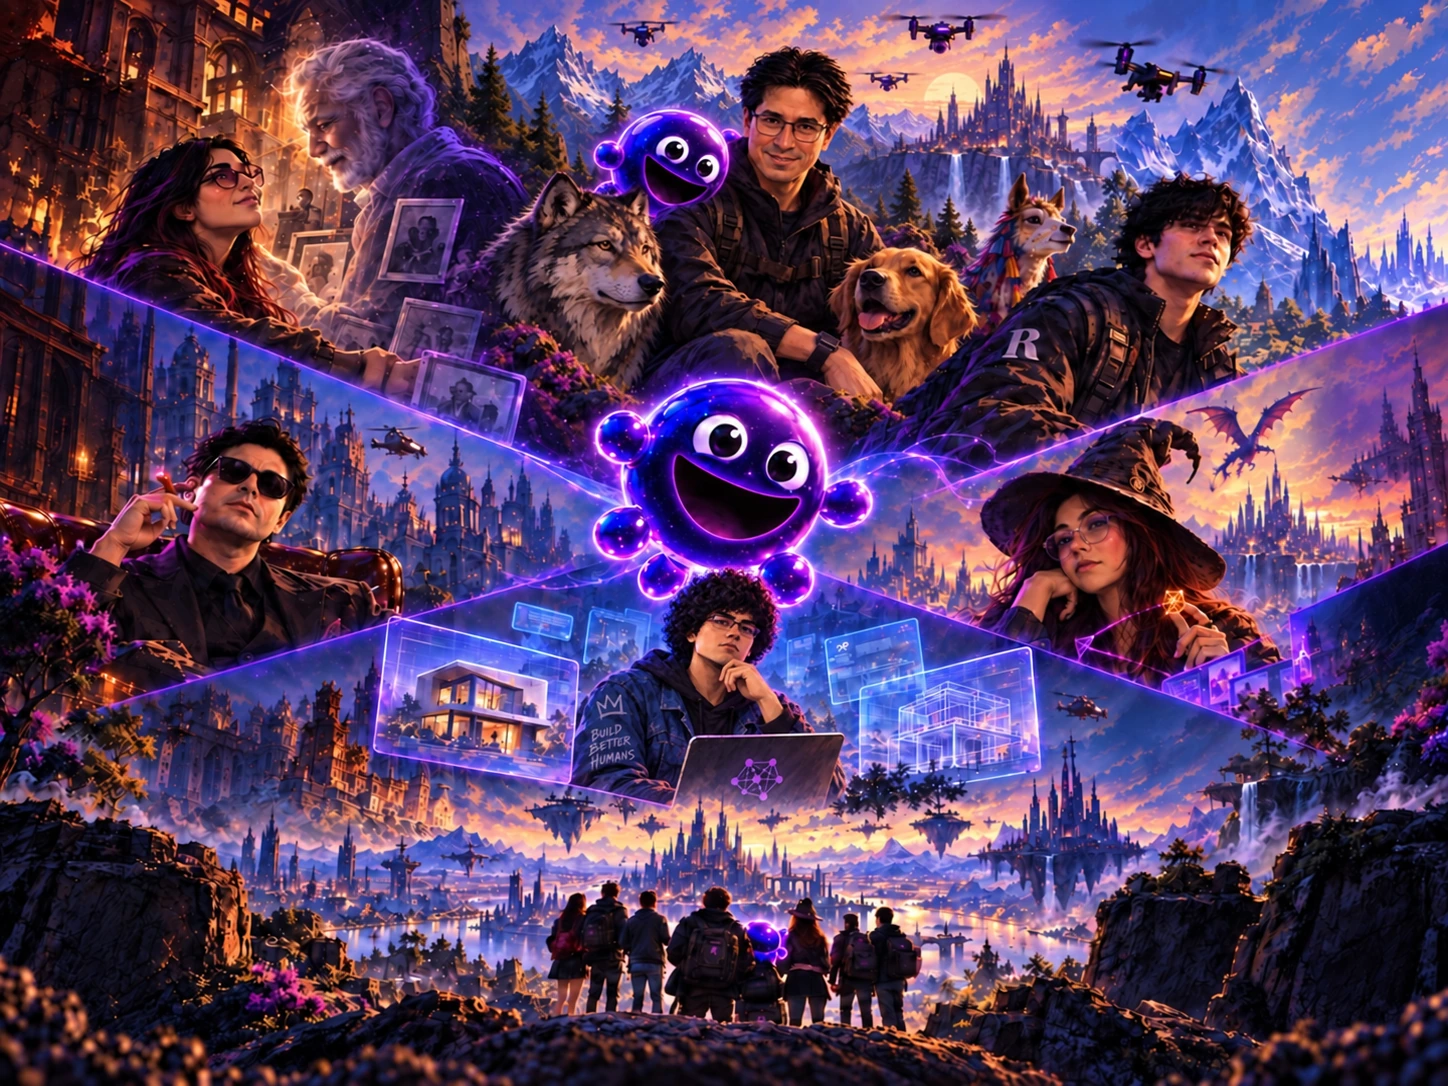
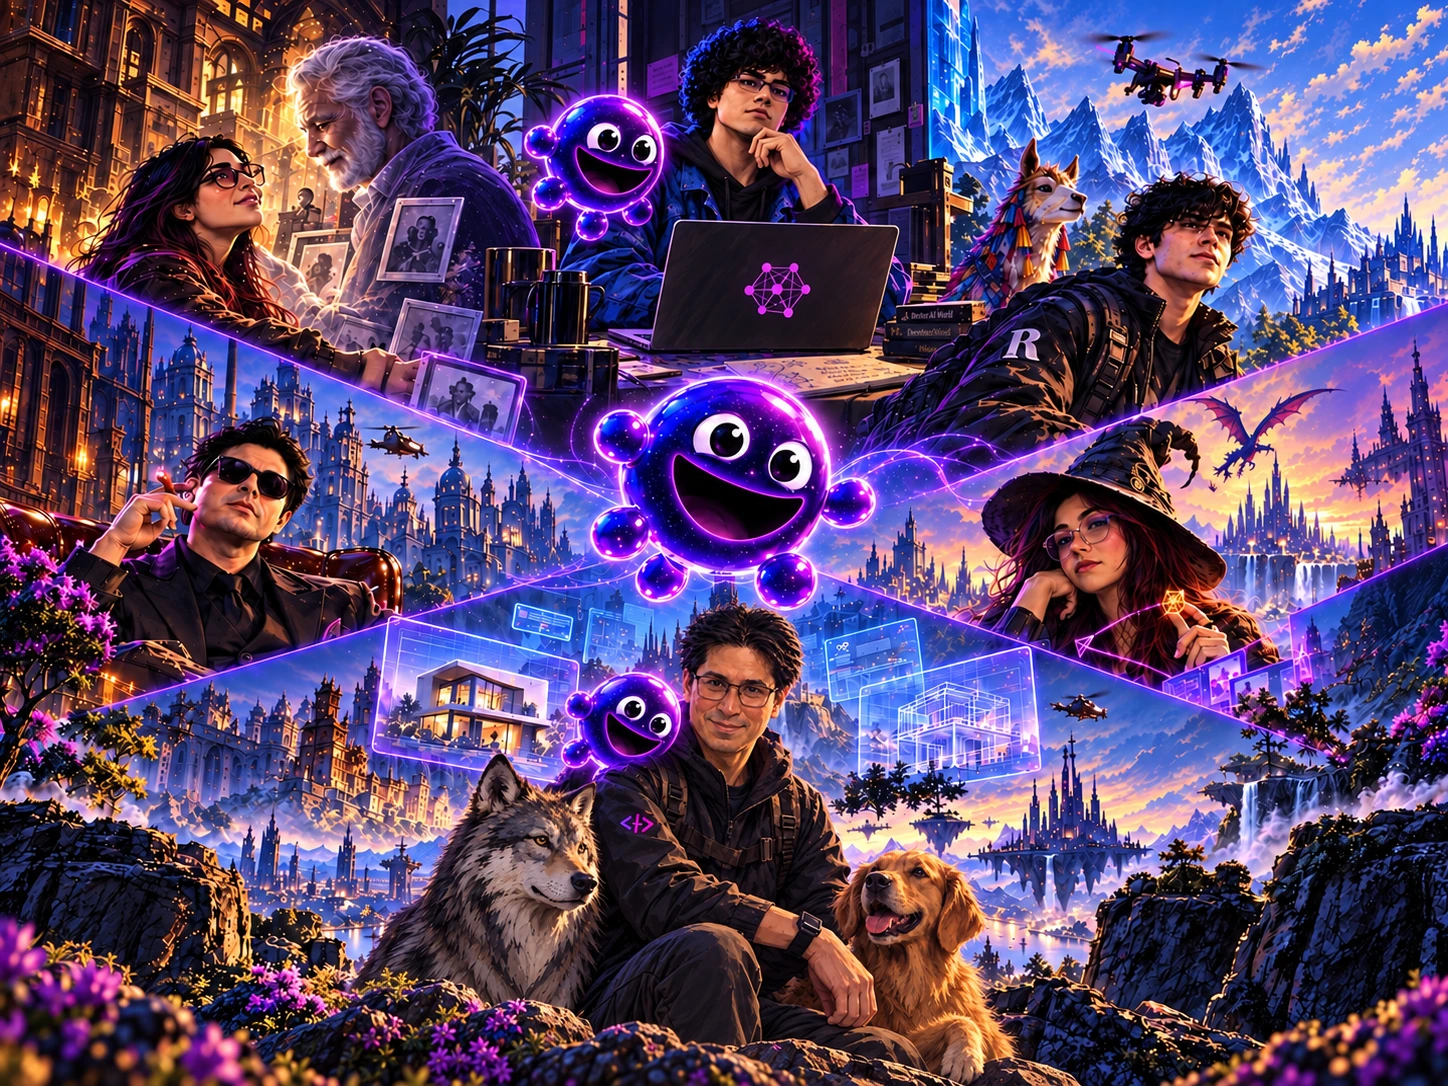
Portada a sangre completa y pilares sin notas de producción
Nueva versión de Portada.png, ahora ocupando toda la primera lámina con un
velo en degradado que rescata la lectura del texto sin apagar la mitad
derecha. La leyenda lleva píldora: encima de la imagen clara desaparecía.

En los cuatro pilares se van "Concepto de imagen" y el prompt: describían
cómo producir una pieza que ya existe. Con ese espacio libre la columna de
la pieza pasa de 1fr a 1.15fr y la lámina crece de 601x338 a 888x500.

diff --git a/index.html b/index.html
@@ -23,8 +23,10 @@ a:hover{color:#A855F7}
 </helmet>
 <x-import component-from-global-scope="deck-stage" from="./deck-stage.js" width="1920" height="1080" hint-size="100%,100%">
 
-<section data-label="Portada" data-screen-label="01" data-speaker-notes="&quot;Todos están hablando de lo que la IA puede hacer. Nosotros vamos a mostrarte lo que TÚ puedes hacer con ella.&quot; [pausa. que respire.] &quot;Bienvenidos a BubbleMesh. El estudio de los Imposibles.&quot;" style="display:flex;background:radial-gradient(ellipse 70% 60% at 70% 30%,rgba(124,58,237,.28),transparent 70%),#0B0F1A;color:#fff;font-family:Inter,sans-serif;overflow:hidden">
-  <div style="flex:0 0 52%;display:flex;flex-direction:column;padding:96px 0 72px 112px">
+<section data-label="Portada" data-screen-label="01" data-speaker-notes="&quot;Todos están hablando de lo que la IA puede hacer. Nosotros vamos a mostrarte lo que TÚ puedes hacer con ella.&quot; [pausa. que respire.] &quot;Bienvenidos a BubbleMesh. El estudio de los Imposibles.&quot;" style="position:relative;display:flex;background:#0B0F1A;color:#fff;font-family:Inter,sans-serif;overflow:hidden">
+  <div onClick="{{ openPortada }}" role="button" tabIndex="0" style="position:absolute;inset:0;cursor:zoom-in"><image-slot id="portada-campana" shape="rect" fit="cover" src="assets/campana-portada.webp" style="position:absolute;inset:0;width:100%;height:100%" placeholder="Portada de campaña — arrastra una imagen"></image-slot></div>
+  <div style="position:absolute;inset:0;pointer-events:none;background:linear-gradient(90deg,rgba(6,9,17,.95) 0%,rgba(6,9,17,.9) 30%,rgba(6,9,17,.62) 48%,rgba(6,9,17,.24) 70%,rgba(6,9,17,.32) 100%)"></div>
+  <div style="position:relative;flex:0 0 52%;display:flex;flex-direction:column;padding:96px 0 72px 112px">
     <div style="font-family:'JetBrains Mono',monospace;font-size:24px;letter-spacing:.14em;text-transform:uppercase;color:#94A3B8">Deck de presentación · 2026</div>
     <div style="margin-top:auto;font-family:Montserrat,sans-serif;font-weight:800;font-size:96px;line-height:1">
       <span style="color:#fff">Bubble</span><span style="background:linear-gradient(90deg,#A855F7,#EC4899);-webkit-background-clip:text;background-clip:text;-webkit-text-fill-color:transparent">Mesh</span>
@@ -38,10 +40,9 @@ a:hover{color:#A855F7}
       </div>
     </sc-if>
   </div>
-  <div style="flex:1;display:flex;align-items:center;justify-content:center;position:relative">
-    <div onClick="{{ openPortada }}" role="button" tabIndex="0" style="position:relative;width:760px;height:570px;cursor:zoom-in;border-radius:20px;overflow:hidden;border:1px solid rgba(168,85,247,.28);box-shadow:0 0 90px rgba(168,85,247,.35)"><image-slot id="portada-campana" shape="rect" fit="cover" src="assets/campana-portada.webp" style="position:absolute;inset:0;width:100%;height:100%" placeholder="Portada de campaña — arrastra una imagen"></image-slot></div>
+  <div style="position:relative;flex:1;display:flex;align-items:flex-end;justify-content:flex-end;padding:0 112px 72px 0">
     <sc-if value="{{ pieceNames }}" hint-placeholder-val="{{ true }}">
-      <div style="position:absolute;right:112px;bottom:72px;font-family:'JetBrains Mono',monospace;font-size:24px;letter-spacing:.1em;text-transform:uppercase;color:rgba(148,163,184,.55)">Pieza · Portada de campaña · <span style="color:#A855F7">Ampliar ⤢</span></div>
+      <div onClick="{{ openPortada }}" role="button" tabIndex="0" style="font-family:'JetBrains Mono',monospace;font-size:24px;letter-spacing:.1em;text-transform:uppercase;color:rgba(226,232,240,.92);cursor:pointer;background:rgba(6,9,17,.62);backdrop-filter:blur(8px);border:1px solid rgba(255,255,255,.1);border-radius:999px;padding:14px 26px" style-hover="color:#fff">Pieza · Portada de campaña · <span style="color:#A855F7">Ampliar ⤢</span></div>
     </sc-if>
   </div>
 </section>
@@ -155,19 +156,14 @@ a:hover{color:#A855F7}
     <div style="font-family:'JetBrains Mono',monospace;font-size:24px;letter-spacing:.14em;text-transform:uppercase;color:#94A3B8">Pilar 1 · Motor de alcance</div>
   </div>
   <div style="margin-top:16px;font-family:Montserrat,sans-serif;font-weight:800;font-size:96px;line-height:1">Lo imposible</div>
-  <div style="margin-top:48px;flex:1;min-height:0;display:grid;grid-template-columns:1fr 1fr;gap:64px">
+  <div style="margin-top:48px;flex:1;min-height:0;display:grid;grid-template-columns:0.85fr 1.15fr;gap:64px">
     <div style="display:flex;flex-direction:column">
       <div style="font-family:Montserrat,sans-serif;font-weight:700;font-size:38px;line-height:1.2;color:#E2E8F0;max-width:26ch">¿Qué es tan grande que un equipo de seis no debería poder lograrlo… y lo logramos de todos modos?</div>
       <div style="margin-top:40px;display:flex;flex-direction:column;font-family:Inter,sans-serif;font-size:28px;color:#E2E8F0">
-        <div style="padding:12px 0;border-top:1px solid rgba(255,255,255,.1)">48 horas para convertir un mariachi en una experiencia cinematográfica</div>
-        <div style="padding:12px 0;border-top:1px solid rgba(255,255,255,.1)">$0 vs $1,000,000: lo que costaría y lo que costó de verdad</div>
-        <div style="padding:12px 0;border-top:1px solid rgba(255,255,255,.1)">Una universidad completa en 60 segundos, un solo día de rodaje</div>
-        <div style="padding:12px 0;border-top:1px solid rgba(255,255,255,.1);border-bottom:1px solid rgba(255,255,255,.1)">1 persona vs. una productora entera: mismo comercial, mismo brief</div>
-      </div>
-    
-      <div style="margin-top:auto;padding-top:28px;display:flex;flex-direction:column;gap:10px">
-        <div style="font-family:'JetBrains Mono',monospace;font-size:22px;letter-spacing:.12em;text-transform:uppercase;color:#A855F7">Concepto de imagen</div>
-        <div style="font-family:Inter,sans-serif;font-size:24px;line-height:1.45;color:rgba(226,232,240,.78)">Un reloj de arena gigante hecho de luz, a punto de vaciarse. En la arena que cae se ve una escena imposible tomando forma.</div>
+        <div style="padding:18px 0;border-top:1px solid rgba(255,255,255,.1)">48 horas para convertir un mariachi en una experiencia cinematográfica</div>
+        <div style="padding:18px 0;border-top:1px solid rgba(255,255,255,.1)">$0 vs $1,000,000: lo que costaría y lo que costó de verdad</div>
+        <div style="padding:18px 0;border-top:1px solid rgba(255,255,255,.1)">Una universidad completa en 60 segundos, un solo día de rodaje</div>
+        <div style="padding:18px 0;border-top:1px solid rgba(255,255,255,.1);border-bottom:1px solid rgba(255,255,255,.1)">1 persona vs. una productora entera: mismo comercial, mismo brief</div>
       </div>
     </div>
     <div style="display:flex;flex-direction:column;gap:28px;min-height:0">
@@ -180,12 +176,6 @@ a:hover{color:#A855F7}
           <div onClick="{{ openP1 }}" role="button" tabIndex="0" style="font-family:'JetBrains Mono',monospace;font-size:22px;letter-spacing:.1em;text-transform:uppercase;color:#A855F7;cursor:pointer;white-space:nowrap" style-hover="color:#fff">Ampliar ⤢</div>
         </div>
       </div>
-      <sc-if value="{{ showPrompts }}" hint-placeholder-val="{{ true }}">
-        <div style="background:rgba(255,255,255,.03);border:1px solid rgba(255,255,255,.08);border-radius:12px;padding:24px 28px;display:flex;flex-direction:column;gap:10px">
-          <div style="font-family:'JetBrains Mono',monospace;font-size:24px;letter-spacing:.12em;text-transform:uppercase;color:#A855F7">Prompt</div>
-          <div style="font-family:'JetBrains Mono',monospace;font-size:24px;line-height:1.45;color:rgba(226,232,240,.82)">Cinematic dramatic shot, a giant glowing hourglass made of golden light particles, the falling sand transforming mid-air into a miniature impossible scene (a house, a stage, a cityscape emerging from the grains), dark moody background, epic scale, hyperrealistic, 4K</div>
-        </div>
-      </sc-if>
     </div>
   </div>
 </section>
@@ -196,19 +186,14 @@ a:hover{color:#A855F7}
     <div style="font-family:'JetBrains Mono',monospace;font-size:24px;letter-spacing:.14em;text-transform:uppercase;color:#94A3B8">Pilar 2 · Raíz y amplificación</div>
   </div>
   <div style="margin-top:16px;font-family:Montserrat,sans-serif;font-weight:800;font-size:96px;line-height:1">Cultura × Futuro</div>
-  <div style="margin-top:48px;flex:1;min-height:0;display:grid;grid-template-columns:1fr 1fr;gap:64px">
+  <div style="margin-top:48px;flex:1;min-height:0;display:grid;grid-template-columns:0.85fr 1.15fr;gap:64px">
     <div style="display:flex;flex-direction:column">
       <div style="font-family:Montserrat,sans-serif;font-weight:700;font-size:38px;line-height:1.2;color:#E2E8F0;max-width:26ch">No reemplazamos el arte con IA. Le damos superpoderes a quienes ya crean cultura.</div>
       <div style="margin-top:40px;display:flex;flex-direction:column;font-family:Inter,sans-serif;font-size:28px;color:#E2E8F0">
-        <div style="padding:12px 0;border-top:1px solid rgba(255,255,255,.1)">Los murales de una universidad cobrando vida</div>
-        <div style="padding:12px 0;border-top:1px solid rgba(255,255,255,.1)">Una bailaora de flamenco bailando junto a su abuela de 1950</div>
-        <div style="padding:12px 0;border-top:1px solid rgba(255,255,255,.1)">Una cumbia que suena en cinco ciudades al mismo tiempo</div>
-        <div style="padding:12px 0;border-top:1px solid rgba(255,255,255,.1);border-bottom:1px solid rgba(255,255,255,.1)">El mismo imposible, contado por cinco culturas distintas</div>
-      </div>
-    
-      <div style="margin-top:auto;padding-top:28px;display:flex;flex-direction:column;gap:10px">
-        <div style="font-family:'JetBrains Mono',monospace;font-size:22px;letter-spacing:.12em;text-transform:uppercase;color:#EC4899">Concepto de imagen</div>
-        <div style="font-family:Inter,sans-serif;font-size:24px;line-height:1.45;color:rgba(226,232,240,.78)">Un mural: de un lado pintura clásica estática, del otro la misma escena cobrando vida en movimiento y luz, saliendo de la pared.</div>
+        <div style="padding:18px 0;border-top:1px solid rgba(255,255,255,.1)">Los murales de una universidad cobrando vida</div>
+        <div style="padding:18px 0;border-top:1px solid rgba(255,255,255,.1)">Una bailaora de flamenco bailando junto a su abuela de 1950</div>
+        <div style="padding:18px 0;border-top:1px solid rgba(255,255,255,.1)">Una cumbia que suena en cinco ciudades al mismo tiempo</div>
+        <div style="padding:18px 0;border-top:1px solid rgba(255,255,255,.1);border-bottom:1px solid rgba(255,255,255,.1)">El mismo imposible, contado por cinco culturas distintas</div>
       </div>
     </div>
     <div style="display:flex;flex-direction:column;gap:28px;min-height:0">
@@ -221,12 +206,6 @@ a:hover{color:#A855F7}
           <div onClick="{{ openP2 }}" role="button" tabIndex="0" style="font-family:'JetBrains Mono',monospace;font-size:22px;letter-spacing:.1em;text-transform:uppercase;color:#EC4899;cursor:pointer;white-space:nowrap" style-hover="color:#fff">Ampliar ⤢</div>
         </div>
       </div>
-      <sc-if value="{{ showPrompts }}" hint-placeholder-val="{{ true }}">
-        <div style="background:rgba(255,255,255,.03);border:1px solid rgba(255,255,255,.08);border-radius:12px;padding:24px 28px;display:flex;flex-direction:column;gap:10px">
-          <div style="font-family:'JetBrains Mono',monospace;font-size:24px;letter-spacing:.12em;text-transform:uppercase;color:#A855F7">Prompt</div>
-          <div style="font-family:'JetBrains Mono',monospace;font-size:24px;line-height:1.45;color:rgba(226,232,240,.82)">Cinematic wide shot of a traditional painted mural on a brick wall, the left half static classical paint, the right half of the same scene coming alive with movement, light, and depth as if breaking through the wall into reality, warm golden lighting transitioning to vivid color, hyperrealistic, 4K</div>
-        </div>
-      </sc-if>
     </div>
   </div>
 </section>
@@ -237,19 +216,14 @@ a:hover{color:#A855F7}
     <div style="font-family:'JetBrains Mono',monospace;font-size:24px;letter-spacing:.14em;text-transform:uppercase;color:#94A3B8">Pilar 3 · El protagonista</div>
   </div>
   <div style="margin-top:16px;font-family:Montserrat,sans-serif;font-weight:800;font-size:96px;line-height:1">Humanos × IA</div>
-  <div style="margin-top:48px;flex:1;min-height:0;display:grid;grid-template-columns:1fr 1fr;gap:64px">
+  <div style="margin-top:48px;flex:1;min-height:0;display:grid;grid-template-columns:0.85fr 1.15fr;gap:64px">
     <div style="display:flex;flex-direction:column">
       <div style="font-family:Montserrat,sans-serif;font-weight:700;font-size:38px;line-height:1.2;color:#E2E8F0;max-width:26ch">El protagonista nunca es la herramienta. Siempre es la persona.</div>
       <div style="margin-top:40px;display:flex;flex-direction:column;font-family:Inter,sans-serif;font-size:28px;color:#E2E8F0">
-        <div style="padding:12px 0;border-top:1px solid rgba(255,255,255,.1)">Un fotógrafo hace solo el trabajo de un estudio completo</div>
-        <div style="padding:12px 0;border-top:1px solid rgba(255,255,255,.1)">Un arquitecto camina por la casa que aún no ha construido</div>
-        <div style="padding:12px 0;border-top:1px solid rgba(255,255,255,.1)">Un vendedor de jardinería se convierte en superhéroe de su propia historia</div>
-        <div style="padding:12px 0;border-top:1px solid rgba(255,255,255,.1);border-bottom:1px solid rgba(255,255,255,.1)">El making-of de alguien viendo su propio resultado por primera vez, sin guion</div>
-      </div>
-    
-      <div style="margin-top:auto;padding-top:28px;display:flex;flex-direction:column;gap:10px">
-        <div style="font-family:'JetBrains Mono',monospace;font-size:22px;letter-spacing:.12em;text-transform:uppercase;color:#A855F7">Concepto de imagen</div>
-        <div style="font-family:Inter,sans-serif;font-size:24px;line-height:1.45;color:rgba(226,232,240,.78)">Retrato de estudio, cálido e íntimo. Manos con callos, mirada cansada pero orgullosa, sosteniendo algo que brilla y que antes no podía crear.</div>
+        <div style="padding:18px 0;border-top:1px solid rgba(255,255,255,.1)">Un fotógrafo hace solo el trabajo de un estudio completo</div>
+        <div style="padding:18px 0;border-top:1px solid rgba(255,255,255,.1)">Un arquitecto camina por la casa que aún no ha construido</div>
+        <div style="padding:18px 0;border-top:1px solid rgba(255,255,255,.1)">Un vendedor de jardinería se convierte en superhéroe de su propia historia</div>
+        <div style="padding:18px 0;border-top:1px solid rgba(255,255,255,.1);border-bottom:1px solid rgba(255,255,255,.1)">El making-of de alguien viendo su propio resultado por primera vez, sin guion</div>
       </div>
     </div>
     <div style="display:flex;flex-direction:column;gap:28px;min-height:0">
@@ -262,12 +236,6 @@ a:hover{color:#A855F7}
           <div onClick="{{ openP3 }}" role="button" tabIndex="0" style="font-family:'JetBrains Mono',monospace;font-size:22px;letter-spacing:.1em;text-transform:uppercase;color:#A855F7;cursor:pointer;white-space:nowrap" style-hover="color:#fff">Ampliar ⤢</div>
         </div>
       </div>
-      <sc-if value="{{ showPrompts }}" hint-placeholder-val="{{ true }}">
-        <div style="background:rgba(255,255,255,.03);border:1px solid rgba(255,255,255,.08);border-radius:12px;padding:24px 28px;display:flex;flex-direction:column;gap:10px">
-          <div style="font-family:'JetBrains Mono',monospace;font-size:24px;letter-spacing:.12em;text-transform:uppercase;color:#A855F7">Prompt</div>
-          <div style="font-family:'JetBrains Mono',monospace;font-size:24px;line-height:1.45;color:rgba(226,232,240,.82)">Intimate cinematic studio portrait, a real working-class person with authentic weathered hands and a proud tired expression, holding a small glowing object they just created with both hands, warm Rembrandt lighting, shallow depth of field, dark neutral background, hyperrealistic, 4K</div>
-        </div>
-      </sc-if>
     </div>
   </div>
 </section>
@@ -278,19 +246,14 @@ a:hover{color:#A855F7}
     <div style="font-family:'JetBrains Mono',monospace;font-size:24px;letter-spacing:.14em;text-transform:uppercase;color:#94A3B8">Pilar 4 · Honestidad como autoridad</div>
   </div>
   <div style="margin-top:16px;font-family:Montserrat,sans-serif;font-weight:800;font-size:96px;line-height:1">Detrás de lo imposible</div>
-  <div style="margin-top:48px;flex:1;min-height:0;display:grid;grid-template-columns:1fr 1fr;gap:64px">
+  <div style="margin-top:48px;flex:1;min-height:0;display:grid;grid-template-columns:0.85fr 1.15fr;gap:64px">
     <div style="display:flex;flex-direction:column">
       <div style="font-family:Montserrat,sans-serif;font-weight:700;font-size:38px;line-height:1.2;color:#E2E8F0;max-width:26ch">Mostramos los prompts, los errores y las cuarenta versiones que no sirvieron antes de la que sí.</div>
       <div style="margin-top:40px;display:flex;flex-direction:column;font-family:Inter,sans-serif;font-size:28px;color:#E2E8F0">
-        <div style="padding:12px 0;border-top:1px solid rgba(255,255,255,.1)">Los 3 prompts que funcionaron (y los 40 que no)</div>
-        <div style="padding:12px 0;border-top:1px solid rgba(255,255,255,.1)">Cuánto costó de verdad, en horas y créditos</div>
-        <div style="padding:12px 0;border-top:1px solid rgba(255,255,255,.1)">Lo que la IA no pudo hacer, y cómo lo resolvió una persona</div>
-        <div style="padding:12px 0;border-top:1px solid rgba(255,255,255,.1);border-bottom:1px solid rgba(255,255,255,.1)">Bubble reacciona a los comentarios más incrédulos</div>
-      </div>
-    
-      <div style="margin-top:auto;padding-top:28px;display:flex;flex-direction:column;gap:10px">
-        <div style="font-family:'JetBrains Mono',monospace;font-size:22px;letter-spacing:.12em;text-transform:uppercase;color:#FBBF24">Concepto de imagen</div>
-        <div style="font-family:Inter,sans-serif;font-size:24px;line-height:1.45;color:rgba(226,232,240,.78)">Una mesa de trabajo real y desordenada: notas, pantallas con prompts, cables, café a medias. En medio del caos, el objeto imposible ya terminado.</div>
+        <div style="padding:18px 0;border-top:1px solid rgba(255,255,255,.1)">Los 3 prompts que funcionaron (y los 40 que no)</div>
+        <div style="padding:18px 0;border-top:1px solid rgba(255,255,255,.1)">Cuánto costó de verdad, en horas y créditos</div>
+        <div style="padding:18px 0;border-top:1px solid rgba(255,255,255,.1)">Lo que la IA no pudo hacer, y cómo lo resolvió una persona</div>
+        <div style="padding:18px 0;border-top:1px solid rgba(255,255,255,.1);border-bottom:1px solid rgba(255,255,255,.1)">Bubble reacciona a los comentarios más incrédulos</div>
       </div>
     </div>
     <div style="display:flex;flex-direction:column;gap:28px;min-height:0">
@@ -303,12 +266,6 @@ a:hover{color:#A855F7}
           <div onClick="{{ openP4 }}" role="button" tabIndex="0" style="font-family:'JetBrains Mono',monospace;font-size:22px;letter-spacing:.1em;text-transform:uppercase;color:#FBBF24;cursor:pointer;white-space:nowrap" style-hover="color:#fff">Ampliar ⤢</div>
         </div>
       </div>
-      <sc-if value="{{ showPrompts }}" hint-placeholder-val="{{ true }}">
-        <div style="background:rgba(255,255,255,.03);border:1px solid rgba(255,255,255,.08);border-radius:12px;padding:24px 28px;display:flex;flex-direction:column;gap:10px">
-          <div style="font-family:'JetBrains Mono',monospace;font-size:24px;letter-spacing:.12em;text-transform:uppercase;color:#A855F7">Prompt</div>
-          <div style="font-family:'JetBrains Mono',monospace;font-size:24px;line-height:1.45;color:rgba(226,232,240,.82)">Cinematic overhead shot of a messy authentic creative workspace, sticky notes, screens with code and text prompts, half-empty coffee cups, tangled cables, and in the center a small glowing finished impossible object as the calm result of the chaos, warm desk lamp lighting, hyperrealistic, 4K</div>
-        </div>
-      </sc-if>
     </div>
   </div>
 </section>
@@ -456,6 +413,8 @@ class Component extends DCLogic {
       pieceNames: this.props.pieceNames ?? true,
 
       isZoomed: !!this.state.zoomSrc,
+      // Fondo CSS en vez de <img src>: el placeholder sin hidratar hacia que
+      // el navegador pidiera la ruta literal y soltara un 404 en cada carga.
       zoomBg: this.state.zoomSrc ? 'url("' + this.state.zoomSrc + '")' : 'none',
       zoomRatio: String(this.state.zoomRatio),
       zoomLabel: this.state.zoomLabel,
